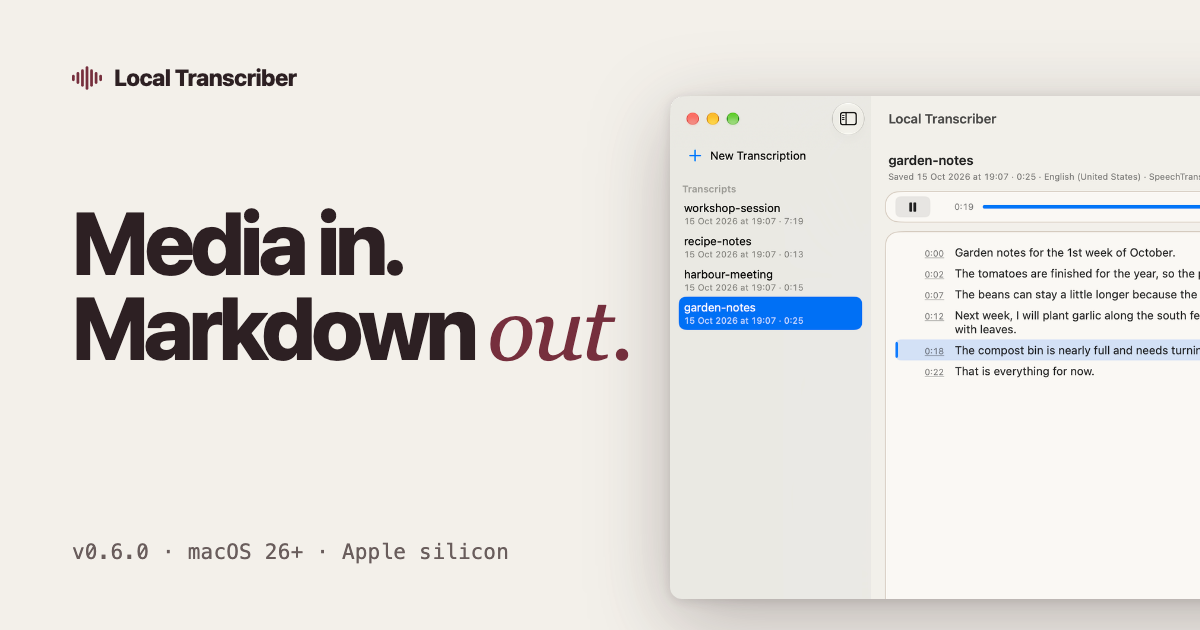
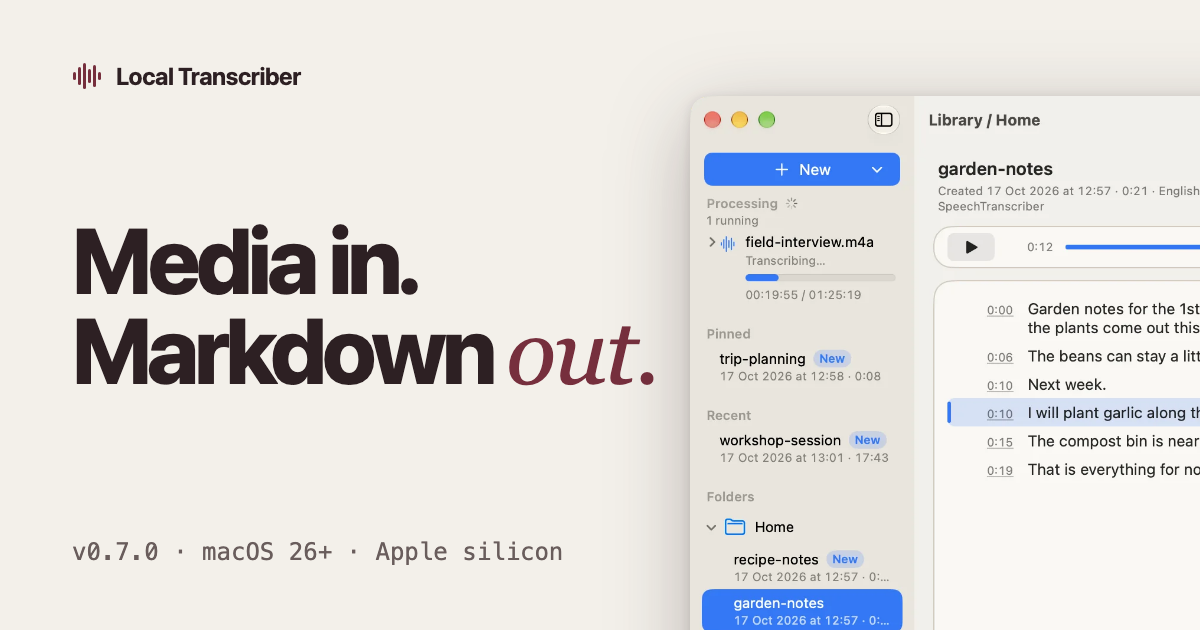
docs(website): refresh the social preview for v0.7.0 and align image alt text (LTR-62)

diff --git a/website/index.html b/website/index.html
@@ -17,12 +17,12 @@
 <meta property="og:image:type" content="image/png">
 <meta property="og:image:width" content="1200">
 <meta property="og:image:height" content="630">
-<meta property="og:image:alt" content="Local Transcriber: Media in. Markdown out. The app window playing back a transcript, with a sidebar of saved transcripts and the current line highlighted.">
+<meta property="og:image:alt" content="Local Transcriber: Media in. Markdown out. The app window with a sidebar showing a transcription in progress, a pinned transcript and folders, beside an open transcript with its current line highlighted.">
 <meta name="twitter:card" content="summary_large_image">
 <meta name="twitter:title" content="Local Transcriber - Media in. Markdown out.">
 <meta name="twitter:description" content="A native macOS app that turns audio, video, YouTube links and your own recordings into timestamped Markdown transcripts, with speech recognition on your Mac.">
 <meta name="twitter:image" content="https://transcribe.wavesweb.nl/og.png">
-<meta name="twitter:image:alt" content="Local Transcriber: Media in. Markdown out. The app window playing back a transcript, with a sidebar of saved transcripts and the current line highlighted.">
+<meta name="twitter:image:alt" content="Local Transcriber: Media in. Markdown out. The app window with a sidebar showing a transcription in progress, a pinned transcript and folders, beside an open transcript with its current line highlighted.">
 <link rel="icon" href="favicon.svg" type="image/svg+xml">
 <link rel="icon" href="favicon.png" type="image/png" sizes="32x32">
 <link rel="apple-touch-icon" href="apple-touch-icon.png">
@@ -106,9 +106,9 @@
     <div class="hero-visual">
       <figure class="shot">
         <img class="shot-light" src="assets/library-light.webp" width="1660" height="1100"
-             alt="Local Transcriber: while field-interview.m4a is transcribing in the sidebar&rsquo;s Processing section, at 00:19:55 of 01:25:19, the Library lists a pinned transcript, a recent one and two folders, Home and Work, and the transcript garden-notes is open with a player bar at 0:12 of 0:20 and the line at 0:10, &ldquo;I will plant garlic along the south fence and cover the empty beds with leaves.&rdquo;, highlighted.">
+             alt="Local Transcriber: while field-interview.m4a is transcribing in the sidebar&rsquo;s Processing section, with a progress bar and its position out of 01:25:19, the Library lists a pinned transcript, a recent one and two folders, Home and Work, and the transcript garden-notes is open with a player bar at 0:12 of 0:20 and the line at 0:10, &ldquo;I will plant garlic along the south fence and cover the empty beds with leaves.&rdquo;, highlighted.">
         <img class="shot-dark" src="assets/library-dark.webp" width="1660" height="1100"
-             alt="Local Transcriber: while field-interview.m4a is transcribing in the sidebar&rsquo;s Processing section, at 00:19:55 of 01:25:19, the Library lists a pinned transcript, a recent one and two folders, Home and Work, and the transcript garden-notes is open with a player bar at 0:12 of 0:20 and the line at 0:10, &ldquo;I will plant garlic along the south fence and cover the empty beds with leaves.&rdquo;, highlighted.">
+             alt="Local Transcriber: while field-interview.m4a is transcribing in the sidebar&rsquo;s Processing section, with a progress bar and its position out of 01:25:19, the Library lists a pinned transcript, a recent one and two folders, Home and Work, and the transcript garden-notes is open with a player bar at 0:12 of 0:20 and the line at 0:10, &ldquo;I will plant garlic along the south fence and cover the empty beds with leaves.&rdquo;, highlighted.">
       </figure>
       <figure class="file file-float" aria-label="The saved transcript for garden-notes.m4a, opening lines">
         <figcaption class="file-bar"><span class="file-name">garden-notes.md</span><span class="file-kind">Markdown</span></figcaption>

diff --git a/website/journal/index.html b/website/journal/index.html
@@ -17,7 +17,7 @@
 <meta property="og:image:type" content="image/png">
 <meta property="og:image:width" content="1200">
 <meta property="og:image:height" content="630">
-<meta property="og:image:alt" content="Local Transcriber: Media in. Markdown out. The app window playing back a transcript, with a sidebar of saved transcripts and the current line highlighted.">
+<meta property="og:image:alt" content="Local Transcriber: Media in. Markdown out. The app window with a sidebar showing a transcription in progress, a pinned transcript and folders, beside an open transcript with its current line highlighted.">
 <meta name="twitter:card" content="summary_large_image">
 <link rel="icon" href="/favicon.svg" type="image/svg+xml">
 <link rel="icon" href="/favicon.png" type="image/png" sizes="32x32">
